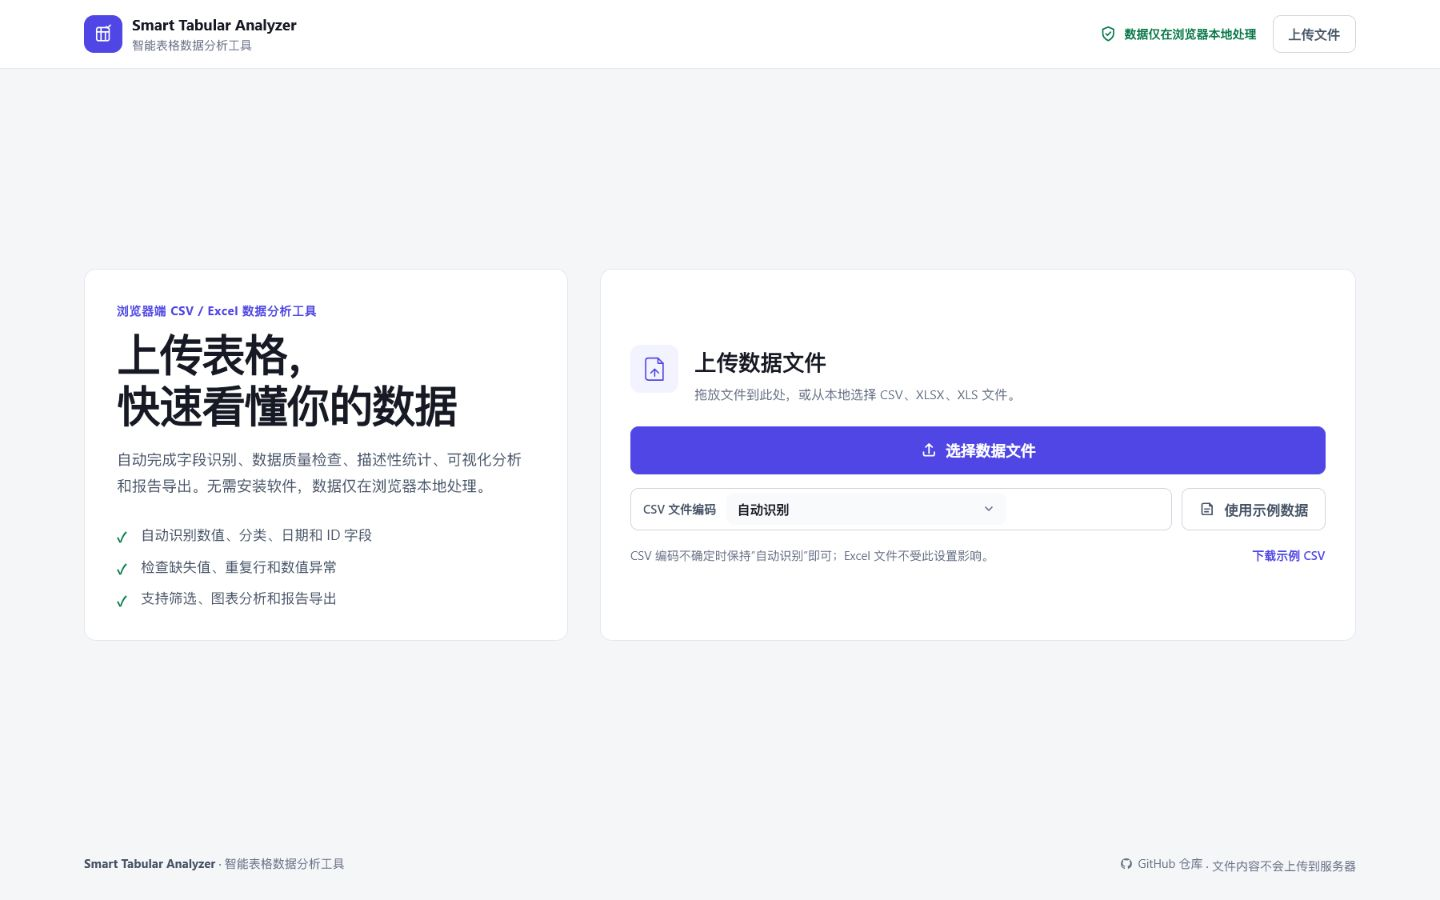
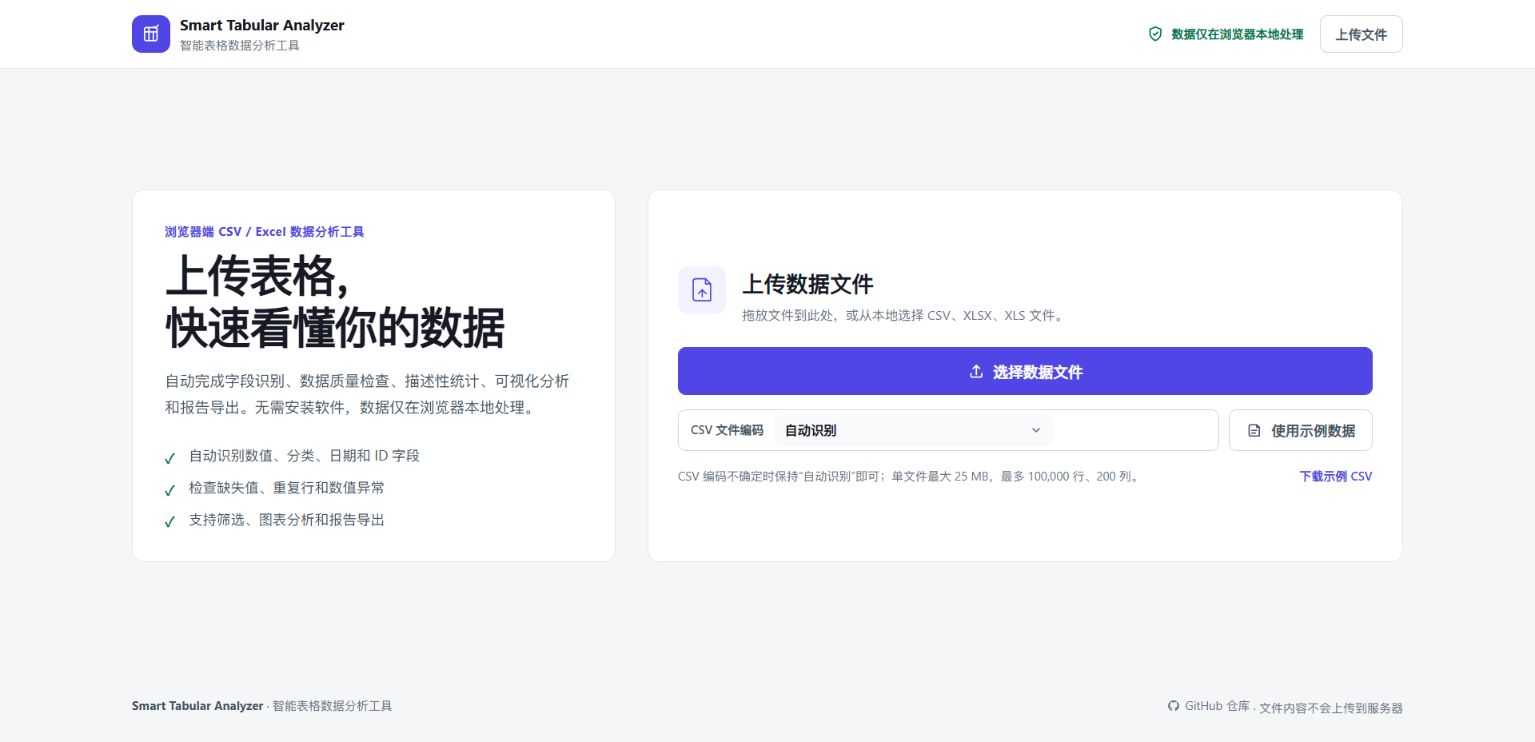
docs: update project screenshots

diff --git a/README.md b/README.md
@@ -37,13 +37,23 @@ Detailed processing rules and data flows are documented in [Architecture](./docs
 
 ## Screenshots
 
-### Upload Workspace
+### Home
 
-![Smart Tabular Analyzer upload workspace](./assets/homepage.png)
+Upload CSV or Excel files, or start immediately with the built-in sample data.
 
-### Analysis Workspace
+![Smart Tabular Analyzer home and file upload](./assets/homepage.png)
 
-![Smart Tabular Analyzer analysis workspace](./assets/analysis-results.png)
+### Data Quality
+
+Review missing values, duplicate rows, and IQR-based numeric outliers in one view.
+
+![Smart Tabular Analyzer data quality checks](./assets/data-quality.png)
+
+### Analysis Results
+
+Compare numeric distributions, categorical Top 10 results, and date trends through interactive charts.
+
+![Smart Tabular Analyzer analysis charts](./assets/analysis-results.png)
 
 ## Privacy
 

diff --git a/README.zh-CN.md b/README.zh-CN.md
@@ -37,13 +37,23 @@ Smart Tabular Analyzer 用于帮助用户理解字段结构陌生或不一致的
 
 ## 项目截图
 
-### 上传工作区
+### 首页
 
-![Smart Tabular Analyzer 上传工作区](./assets/homepage.png)
+上传 CSV 或 Excel 文件，或直接使用内置示例数据开始分析。
 
-### 分析工作区
+![Smart Tabular Analyzer 首页与文件上传](./assets/homepage.png)
 
-![Smart Tabular Analyzer 分析工作区](./assets/analysis-results.png)
+### 数据质量
+
+在同一视图中检查缺失值、重复行和基于 IQR 的数值异常值。
+
+![Smart Tabular Analyzer 数据质量检查](./assets/data-quality.png)
+
+### 分析结果
+
+通过交互图表查看数值分布、分类 Top 10 和日期趋势。
+
+![Smart Tabular Analyzer 分析图表](./assets/analysis-results.png)
 
 ## 隐私说明
 